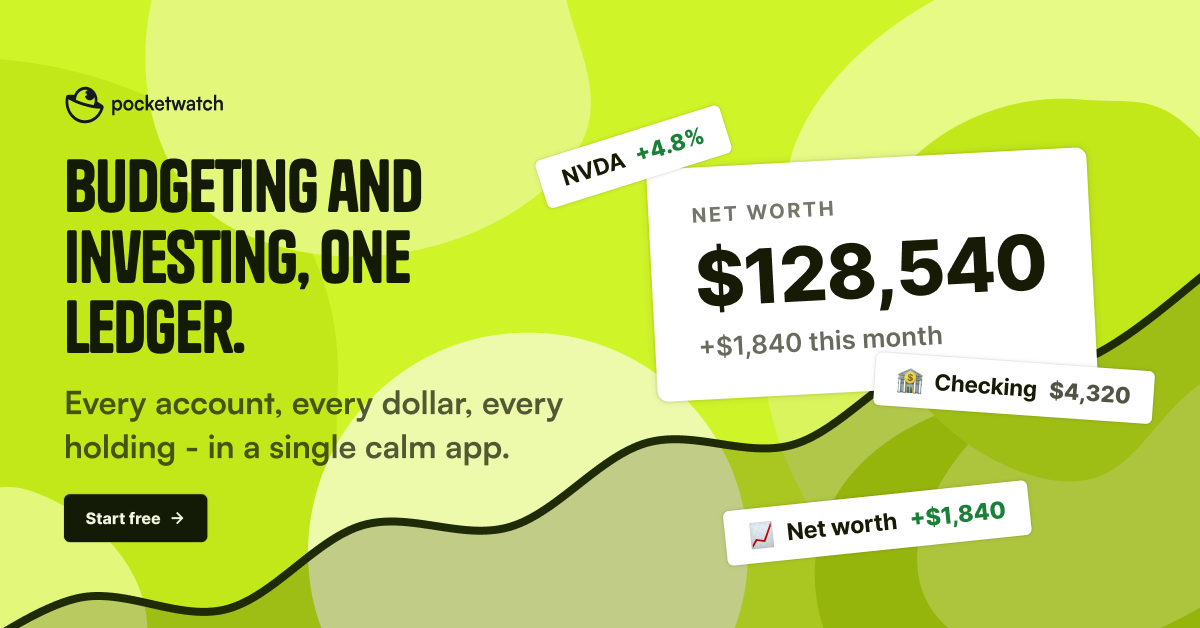
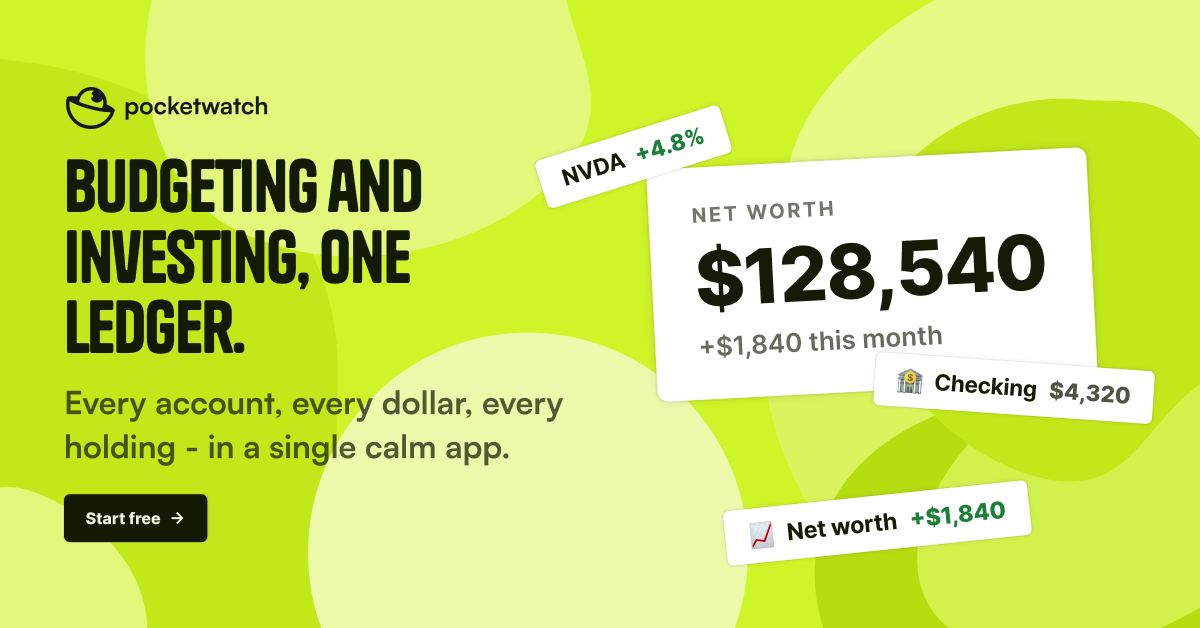
fix: cap case study hero height and refresh Pocketwatch V2 ads
Square/tall hero art no longer fills the viewport — single-image heroes
are now constrained to 80vh, centered, keeping aspect. Re-import the
updated V2 ad exports for hero and gallery.

Changed region(s): [[0.0, 0.4236, 1.0, 1.0], [0.0308, 0.121, 0.2158, 0.2118]]

diff --git a/src/lib/components/CaseStudy.svelte b/src/lib/components/CaseStudy.svelte
@@ -125,7 +125,13 @@
 					/>
 				</div>
 			{:else if heroImage}
-				<Img src={heroImage} alt={heroAlt ?? title} sizes="100vw" eager class="h-auto w-full" />
+				<Img
+					src={heroImage}
+					alt={heroAlt ?? title}
+					sizes="100vw"
+					eager
+					class="mx-auto h-auto max-h-[80vh] w-auto max-w-full"
+				/>
 			{/if}
 		</div>
 	{/if}
